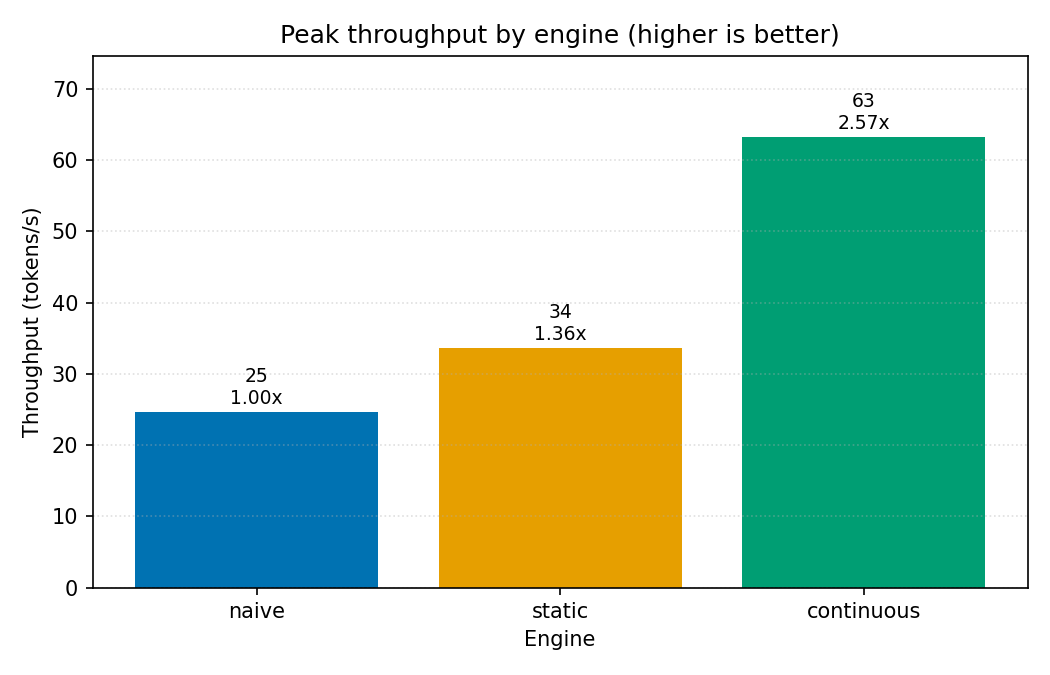
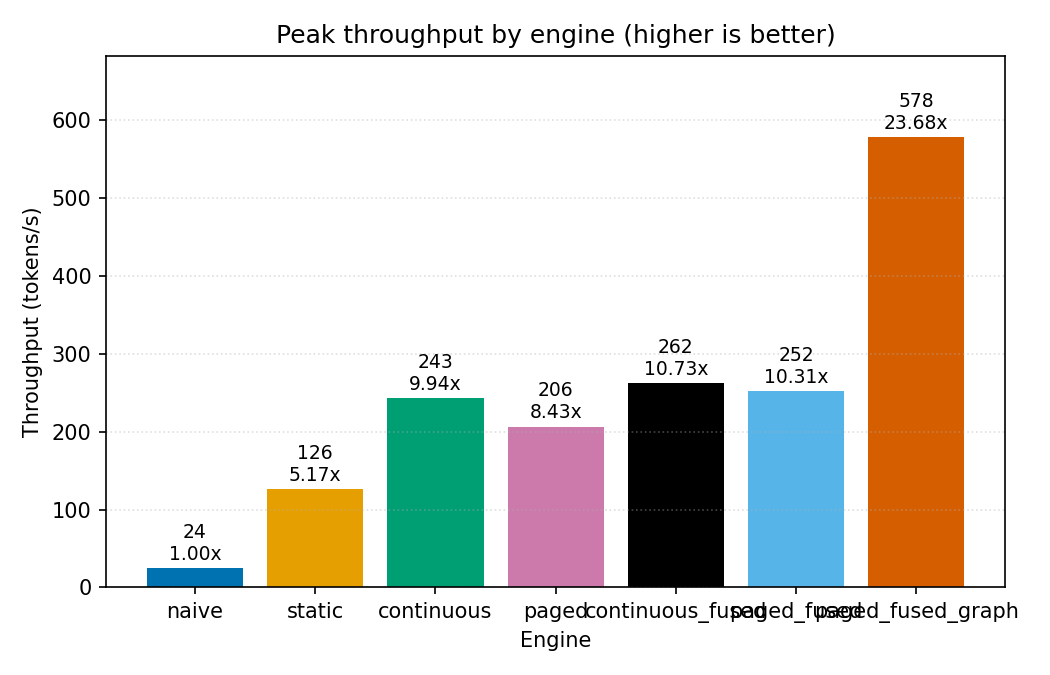
the graph engine doubles the ladder: 578 tok/s, 34 percent of vllm
Full pipeline rerun with paged_fused_graph included, all 19 steps green.
Peak 578.3 tok/s (23.7x naive) against 251.7 for the eager fused engine,
+88.7% at the 5-run noise floor (419.8 vs 222.4 tok/s at rate 16), TTFT
p99 574 ms - better than vLLM's 966 ms on the same workload, at 34% of its
throughput. GPU utilization goes from 37% peak to 95%: the eager step was
launch-bound, and one replayed graph per step is what feeds the card.

diff --git a/README.md b/README.md
@@ -13,20 +13,28 @@ which published inference optimizations actually help on realistic workloads.
 
 | engine | throughput | vs naive | p99 TTFT |
 |---|---|---|---|
-| naive | 27.4 tok/s | 1x | 56 s |
-| static batching | 140.4 tok/s | 5.1x | 7.8 s |
-| continuous batching | 272.6 tok/s | 9.9x | 2.1 s |
-| paged KV (gather + SDPA) | 228.3 tok/s | 8.3x | 2.9 s |
-| paged KV + triton kernel | 274.5 tok/s | 10.0x | 2.1 s |
-| **continuous + triton kernel** | **286.7 tok/s** | **10.5x** | **1.9 s** |
+| naive | 24.4 tok/s | 1x | 63 s |
+| static batching | 126.3 tok/s | 5.2x | 7.3 s |
+| continuous batching | 242.8 tok/s | 9.9x | 2.5 s |
+| paged KV (gather + SDPA) | 206.0 tok/s | 8.4x | 3.3 s |
+| paged KV + triton kernel | 251.7 tok/s | 10.3x | 2.4 s |
+| continuous + triton kernel | 262.0 tok/s | 10.7x | 2.2 s |
+| **paged + kernel + CUDA graphs** | **578.3 tok/s** | **23.7x** | **0.57 s** |
+
+(one internally consistent T4 run; earlier runs put the pre-graph engines
+at 273-287 tok/s, same ladder shape)
 
 The decode attention is a hand-written Triton kernel (online softmax, native
 GQA, block-table indexing over the paged pool, split-K flash-decoding): 5-8x
 over the PyTorch SDPA path at op level, and it moves the measured decode-
-scaling knee from B~4 out beyond the testable range (162 -> 495 tok/s at
-B=16, S=2048). Details and the two instructive failures in
-[docs/kernel.md](docs/kernel.md). Best engine reaches 17% of vLLM (1,708
-tok/s). Measured as goodput (req/s meeting a 500 ms TTFT / 50 ms TPOT SLO)
+scaling knee from B~4 out beyond the testable range. Capturing the whole
+fused decode step in CUDA graphs then removed the launch overhead that
+dominated it: the step falls from 34 to 9.4 ms, and the graphed engine more
+than doubles the eager one end to end (+88.7% at the 5-run noise floor,
+419.8 vs 222.4 tok/s). Details and the instructive failures in
+[docs/kernel.md](docs/kernel.md). Best engine reaches 34% of vLLM (1,715
+tok/s) and beats vLLM's TTFT p99 on this workload (574 ms vs 966 ms).
+Measured as goodput (req/s meeting a 500 ms TTFT / 50 ms TPOT SLO)
 continuous sustains roughly 200x naive.
 
 ## What it found

diff --git a/docs/writeup.md b/docs/writeup.md
@@ -607,9 +607,12 @@ For an ML-infra / systems screener:
 
 - Wrote a paged-attention decode kernel in Triton (online softmax, native GQA,
   block-table indexing, split-K flash-decoding with a fused merge): 5-8x over
-  the PyTorch SDPA path at op level, lifting the serving ladder to 10.5x naive
-  and moving the measured decode-scaling knee from B~4 to beyond the testable
-  range; token-exactness held via a tie-aware oracle.
+  the PyTorch SDPA path at op level, moving the measured decode-scaling knee
+  from B~4 to beyond the testable range; token-exactness held via a tie-aware
+  oracle. Then captured the whole fused decode step in CUDA graphs (bucketed
+  by batch, static buffers, replay-safe as sequences grow): the step fell 34
+  to 9.4 ms and the serving ladder jumped from 10.7x to 23.7x naive, 34% of
+  vLLM with a better TTFT p99 than vLLM on the same T4 workload.
 - Moved the scheduler's hot path to C++ (lock-free block allocator, one
   pybind crossing per decode step) after a written 15% overhead gate scoped
   what it could claim; proved Python/C++ equivalence by hashing every

diff --git a/docs/kernel.md b/docs/kernel.md
@@ -107,6 +107,12 @@ static buffers, replay per step) measured:
 
 The eager step really was about three quarters launch overhead. Serving
 through it, p50 inter-token latency falls 34.2 to 9.2 ms and p90 69.9 to 9.9.
+End to end it is the largest single jump in the project: the graphed engine
+does 578.3 tok/s peak in the ladder (23.7x naive, 34% of vLLM's 1,715 on the
+same T4) against 251.7 for the eager fused engine, confirmed past the noise
+floor at +88.7% over 5 runs, and its TTFT p99 of 574 ms is better than
+vLLM's 966 ms on this workload. GPU utilization finally looks like a served
+GPU: 94-95% peak against the eager engine's 37%.
 
 Three details made the capture correct rather than merely fast. The paged
 kernel bounds its loop with the per-row length loaded from a device tensor,
